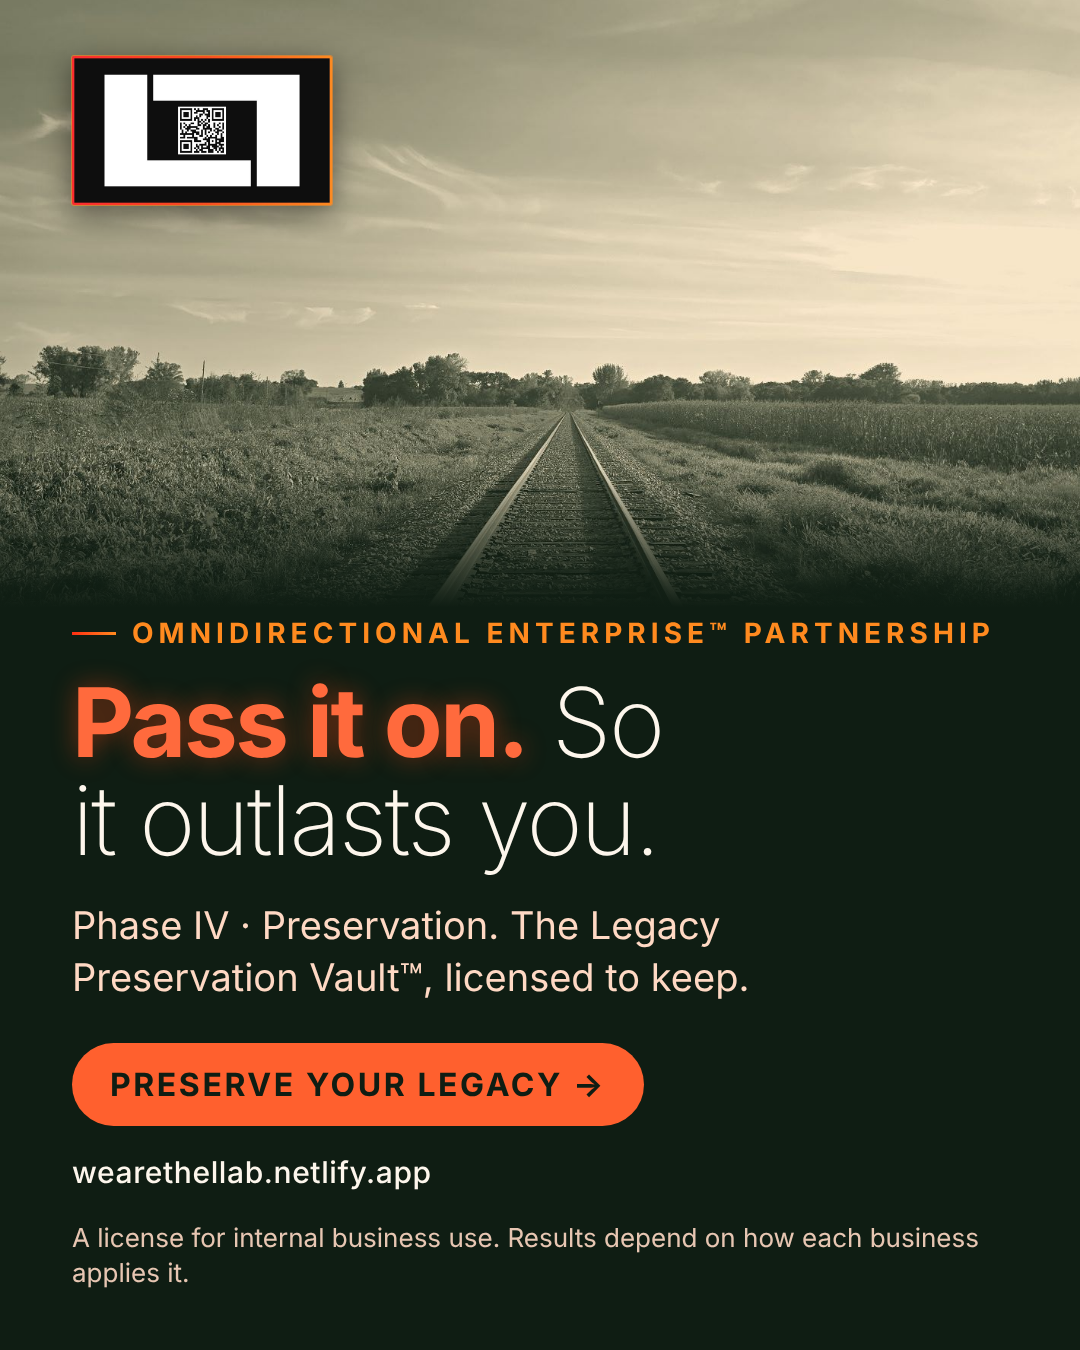
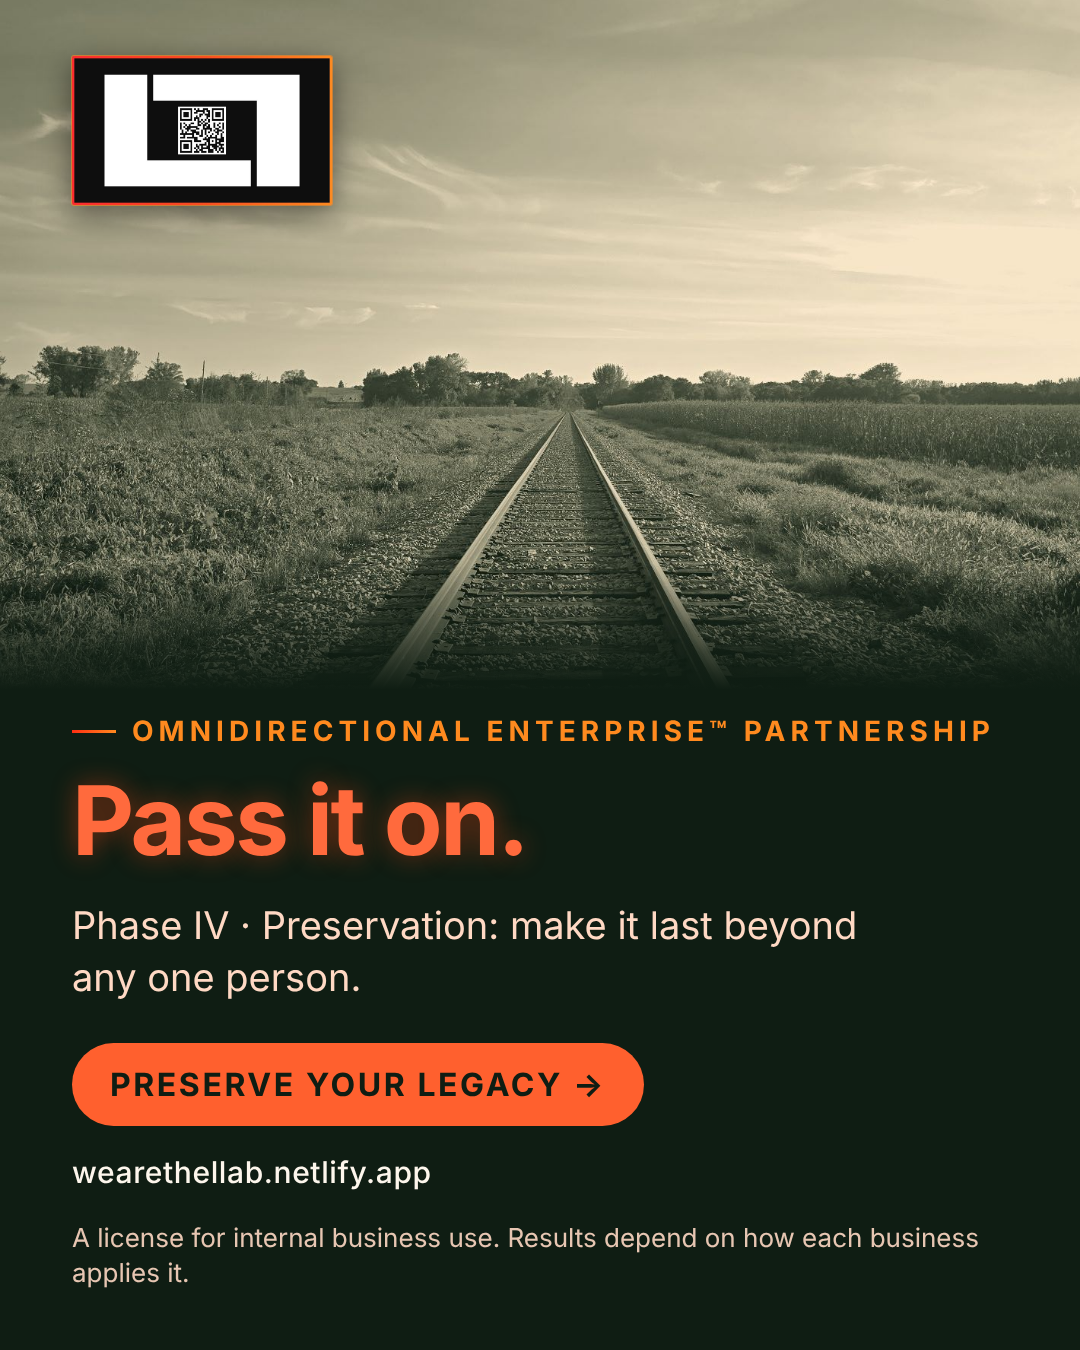
Concise problem/solution Home; no outcome language
- Home problem/solution trimmed to the first approved sentence each; full text kept on About (#economic)
- Phase IV no longer says "So it outlasts you" (now "Make it last beyond any one person."); ad 02 follows
- SW cache v16

Claude-Session: https://claude.ai/code/session_01CJiPCp3b9wqRwJ31gambQ1

Changed region(s): [[0.0, 0.3422, 1.0, 0.7467]]

diff --git a/index.html b/index.html
@@ -188,9 +188,10 @@
       <p class="eyebrow" style="margin-bottom:1.5rem;">01 · The problem</p>
       <h2 class="headline" style="margin-top:1rem; margin-bottom:2.5rem; max-width:24ch;">Generating value and capturing value <strong>are different processes.</strong></h2>
       <div class="split">
-        <div><p class="eyebrow">The problem</p><p class="subhead" style="max-width:none; margin-top:1rem;">The global economy faces a structural coordination problem: capital, labor, intellectual property, technology, and decision-making authority operate through institutions and markets whose incentives do not always align with productive contribution. Market concentration, information asymmetry, unequal bargaining power, and fragmented governance can constrain competition, impede entrepreneurship, weaken regional economic development, and concentrate the financial returns from innovation.</p></div>
-        <div><p class="eyebrow">The solution</p><p class="subhead" style="max-width:none; margin-top:1rem;">The Co.LLab™ develops proprietary products, intellectual property, and leadership infrastructure organized around the Omnidirectional Enterprise™ operating model — designed to improve resource coordination, strengthen organizational capability, connect intellectual assets with practical and commercial applications, and expand access to opportunities for economic participation.</p></div>
+        <div><p class="eyebrow">The problem</p><p class="subhead" style="max-width:none; margin-top:1rem;">The global economy faces a structural coordination problem: capital, labor, intellectual property, technology, and decision-making authority operate through institutions and markets whose incentives do not always align with productive contribution.</p></div>
+        <div><p class="eyebrow">The solution</p><p class="subhead" style="max-width:none; margin-top:1rem;">The Co.LLab™ develops proprietary products, intellectual property, and leadership infrastructure organized around the Omnidirectional Enterprise™ operating model.</p></div>
       </div>
+      <p class="subhead" style="margin-top:1.5rem; max-width:none;"><a href="pages/about.html#economic">Read the full economic case →</a></p>
                 </div>
   </section>
 
@@ -216,7 +217,7 @@
         </a>
         <a class="tile" href="pages/partnership.html#tiers">
           <img src="assets/img/editorial/track.jpg" alt="A single railroad track running straight to the horizon between green grass and a cornfield under a wide blue sky." width="1420" height="2048" loading="lazy" style="object-position: 50% 56%;" />
-          <span class="tile-label"><span class="num">IV · Preservation</span><strong>Pass it on.</strong><span class="tile-desc">So it outlasts you.</span><em>See the tier</em></span>
+          <span class="tile-label"><span class="num">IV · Preservation</span><strong>Pass it on.</strong><span class="tile-desc">Make it last beyond any one person.</span><em>See the tier</em></span>
         </a>
       </div>
     </div>

diff --git a/pages/about.html b/pages/about.html
@@ -141,9 +141,14 @@
     </div>
   </section>
 
-  <section class="ps-block">
+  <section class="ps-block" id="economic">
     <div class="wrap">
       <p class="eyebrow" style="margin-bottom:1.5rem;">The Co.LLab™ · Economic context</p>
+      <div class="split" style="margin-bottom:2.5rem;">
+        <div><p class="eyebrow">The problem</p><p class="subhead" style="max-width:none; margin-top:1rem;">The global economy faces a structural coordination problem: capital, labor, intellectual property, technology, and decision-making authority operate through institutions and markets whose incentives do not always align with productive contribution. Market concentration, information asymmetry, unequal bargaining power, and fragmented governance can constrain competition, impede entrepreneurship, weaken regional economic development, and concentrate the financial returns from innovation.</p></div>
+        <div><p class="eyebrow">The solution</p><p class="subhead" style="max-width:none; margin-top:1rem;">The Co.LLab™ develops proprietary products, intellectual property, and leadership infrastructure organized around the Omnidirectional Enterprise™ operating model — designed to improve resource coordination, strengthen organizational capability, connect intellectual assets with practical and commercial applications, and expand access to opportunities for economic participation.</p></div>
+      </div>
+
       <div style="margin-bottom:2.5rem;"><p class="eyebrow">Inside the company</p><p class="subhead" style="max-width:62ch; margin-top:1rem;">The founder steps back, people change, the market shifts. Weak organizational foundations, fragmented operations, inadequate governance, and insufficient succession planning can increase execution risk, reduce productivity, and expose organizations to operational and financial instability.</p></div>
       <div class="split" style="margin-top:2.5rem;">
         <div><p class="eyebrow">Market conditions</p><p class="subhead" style="max-width:none; margin-top:1rem;">These pressures intersect with geopolitical realignment, supply-chain restructuring, automation, changing investment patterns, and the growing economic importance of intangible assets — raising the strategic importance of productivity, institutional adaptability, intellectual property ownership, effective governance, and access to commercial infrastructure.</p></div>

diff --git a/sw.js b/sw.js
@@ -3,7 +3,7 @@
 // static assets (HTML/CSS/JS/images) and never touches anything that must
 // always be fresh: Netlify Functions (auth, entitlements, downloads),
 // /content/*.json (CMS-edited copy and pricing), or /admin.
-const CACHE_VERSION = 'collab-shell-v15';
+const CACHE_VERSION = 'collab-shell-v16';
 
 const SHELL_ASSETS = [
   '/pages/account.html',

diff --git a/docs/marketing-strategy.md b/docs/marketing-strategy.md
@@ -12,7 +12,7 @@ The website is built to work two ways at once: as the platform where a buyer dec
 |---|---|---|
 | **Loss aversion**: losses weigh roughly twice as much as equal gains | Kahneman & Tversky | Lead with the loss ("Most lose it"), not the gain. |
 | **Threat needs efficacy**: fear persuades only when paired with a clear, doable action | Witte, Extended Parallel Process Model | Every threat line is followed by a concrete action: four phases, one payment, one button. A fear-only ad makes people avoid it. |
-| **Mortality salience and symbolic immortality**: thinking of mortality pushes people toward work that outlives them | Terror Management Theory | "Pass it on. So it outlasts you." is the strongest emotional line. Keep the tone dignified, not morbid. |
+| **Mortality salience and symbolic immortality**: thinking of mortality pushes people toward work that outlives them | Terror Management Theory | "Pass it on." is the strongest emotional line. Keep the tone dignified, not morbid. |
 | **Generativity**: midlife concern for what continues after you | Erikson | Apprentice seats ("partners sponsor people outside their company") and nonprofit giving speak to this motive. |
 | **Status and cultural capital**: owning proprietary IP signals standing | Veblen, Bourdieu | Name the owner of the IP and use the word "licensed". Keep the look restrained. A $50,000 purchase needs a premium-looking page. |
 | **Social identity**: people choose what says who they are | Tajfel & Turner | "Best for: owners leading on their own / leadership teams / the whole company / companies building beyond their founder" lets buyers self-select. "Partners" and the ecosystem give a group to belong to. |
@@ -56,7 +56,7 @@ Run `node scripts/build-ads.mjs` to render `marketing/ads/*.png` (4:5 feed and 1
 | # | Hook | Lever | Funnel stage | Lands on |
 |---|---|---|---|---|
 | 01 | Every company starts with a vision. **Most lose it.** | Loss aversion, identity | Cold | Home |
-| 02 | **Pass it on.** So it outlasts you. | Mortality salience, legacy | Warm to hot | Partnership |
+| 02 | **Pass it on.** | Mortality salience, legacy | Warm to hot | Partnership |
 | 03 | Define it. Plan it. Live it. **Pass it on.** | Processing fluency | Warm | Home #solution |
 | 04 | Generating value and capturing value **are different processes.** | Authority, reframe | Cold (LinkedIn) | Home #market |
 | 05 | **One payment.** Licensed to keep. | Risk reversal, price clarity | Hot | Partnership #tiers |
